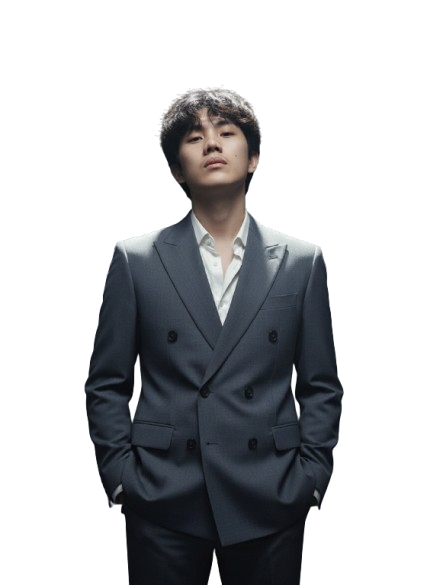
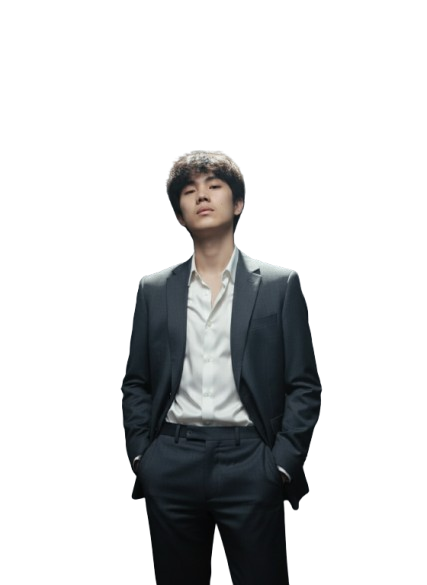
chore: change the profile

Changed region(s): [[0.1827, 0.1538, 0.822, 1.0], [0.4262, 0.8308, 0.6393, 1.0]]

diff --git a/src/components/Hero.jsx b/src/components/Hero.jsx
@@ -62,25 +62,6 @@ const Hero = () => {
 
                 {/* Green Activity Dot */}
                 <span className="absolute bottom-2 right-2 w-5 h-5 bg-green-500 border-2 border-white rounded-full"></span>
-                {/* Bubble Note */}
-                <div
-                  className="absolute top-0 left-1/4 -translate-x-1/2 -translate-y-full 
-  bg-white text-slate-800 
-  dark:bg-slate-700 dark:text-white 
-  px-5 py-3 rounded-xl shadow-xl 
-  text-xs sm:text-sm md:text-base 
-  max-w-[280px] text-center 
-  border border-slate-300 dark:border-slate-500 
-  transition-all duration-300 ease-in-out"
-                >
-                  Open for opportunities
-                  <div
-                    className="absolute left-1/2 -translate-x-1/2 top-full w-0 h-0 
-    border-l-[10px] border-r-[10px] border-t-[10px] 
-    border-l-transparent border-r-transparent 
-    border-t-white dark:border-t-slate-700"
-                  ></div>
-                </div>
               </div>
             </div>
           </div>

diff --git a/src/constants/index.js b/src/constants/index.js
@@ -1,7 +1,7 @@
 // -----------------
 // Hero Data
 import profile from "../assets/profile/profile.png";
-import profile_shades from "../assets/profile/profile-upate.png";
+import profile_shades from "../assets/profile/profile.png";
 
 export const heroData = {
   title: "Full Stack Developer",
